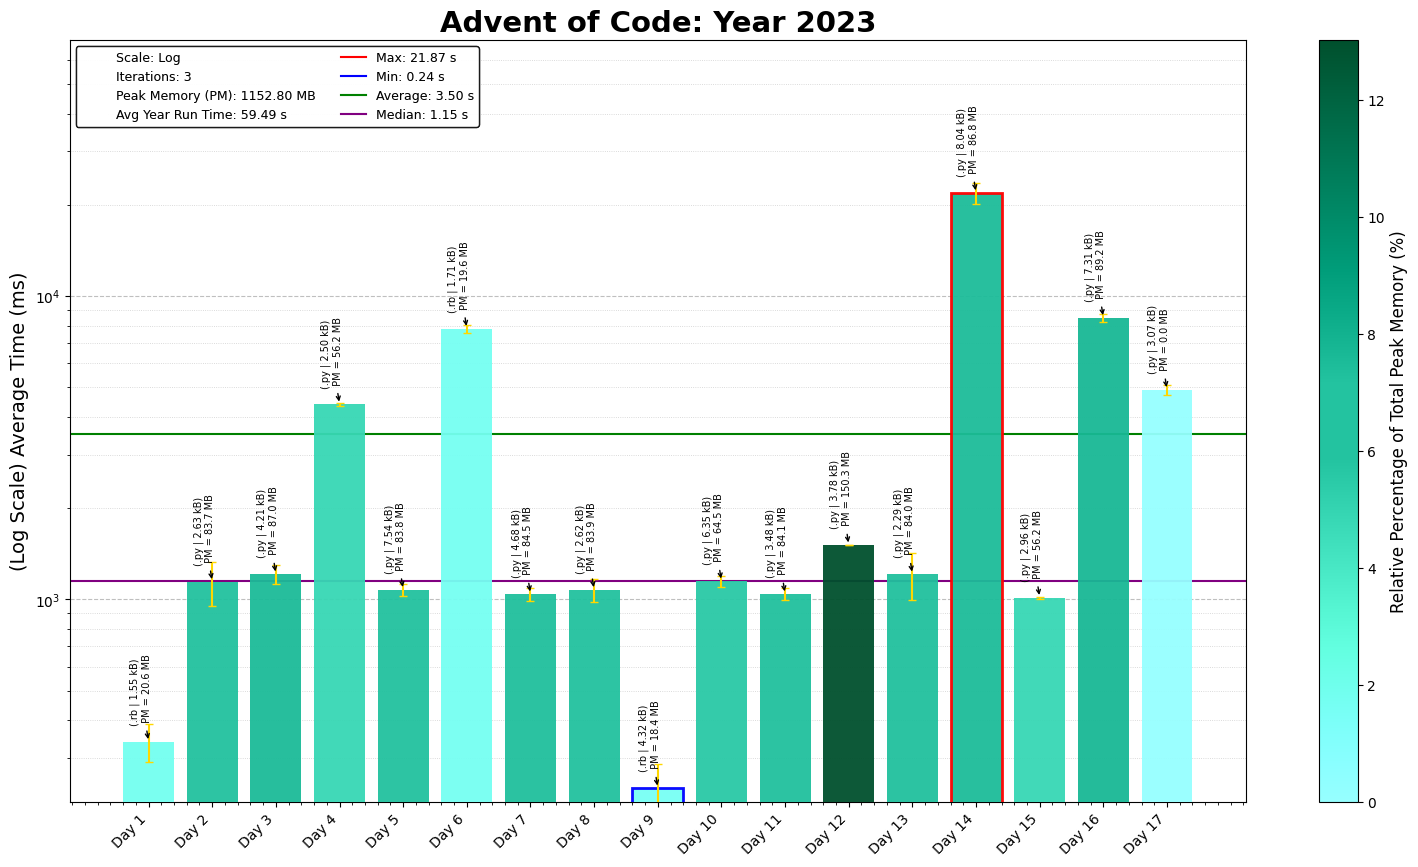
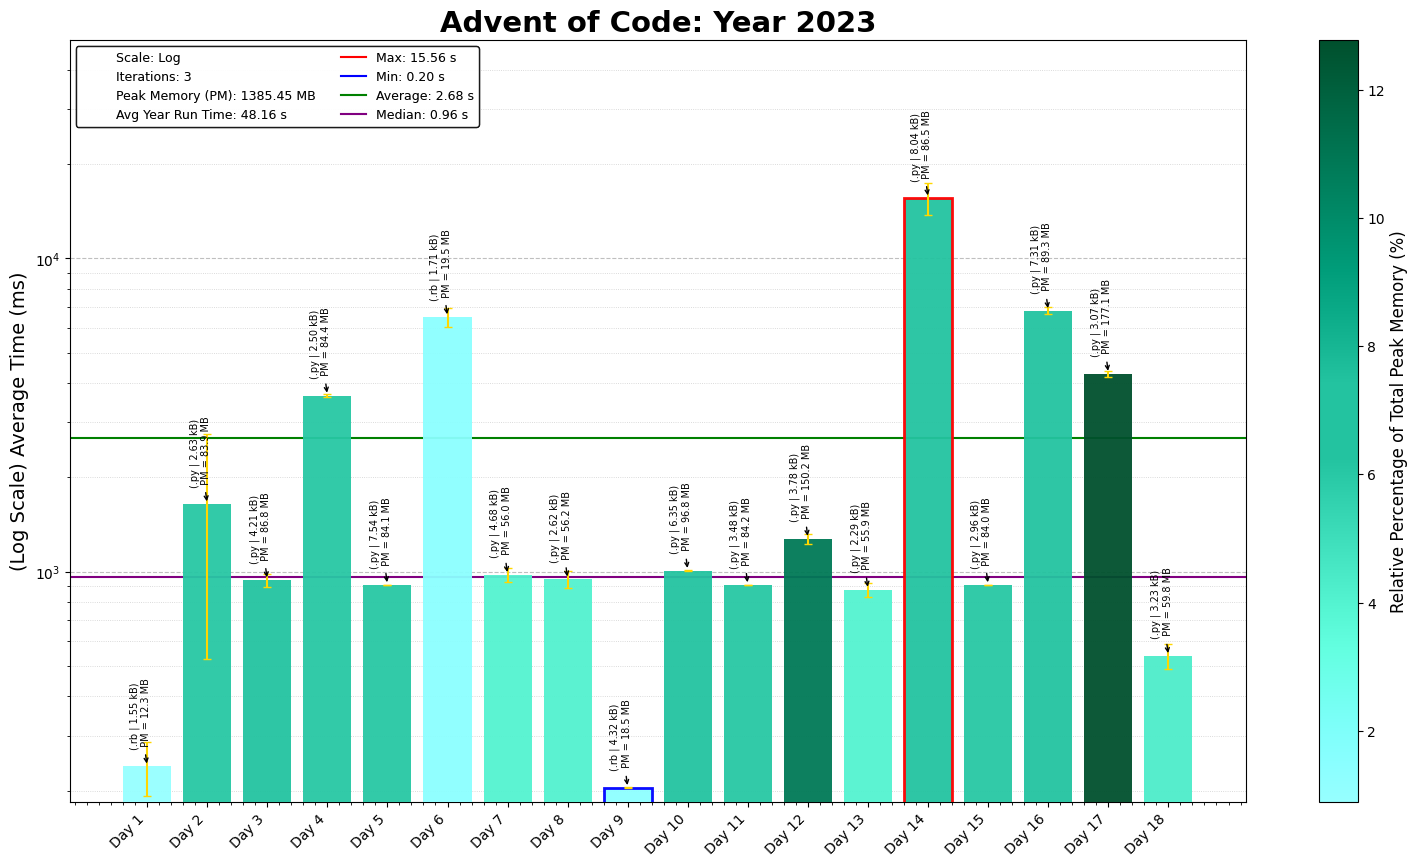
2023 Day 18 P1 & P2

diff --git a/2023/18/2023Day18.py b/2023/18/2023Day18.py
@@ -1,0 +1,99 @@
+"""Advent of Code - Day 18, Year 2023
+Solution Started: Jan 8, 2025
+Puzzle Link: https://adventofcode.com/2023/day/18
+Solution by: abbasmoosajee07
+Brief: [Dig holes and Lava Flow]
+"""
+
+#!/usr/bin/env python3
+
+import os, re, copy, time
+from math import gcd
+import numpy as np
+import pandas as pd
+start_time = time.time()
+
+# Load the input data from the specified file path
+D18_file = "Day18_input.txt"
+D18_file_path = os.path.join(os.path.dirname(os.path.abspath(__file__)), D18_file)
+
+# Read and sort input data into a grid
+with open(D18_file_path) as file:
+    input_data = file.read().strip().split('\n')
+
+def parse_input(input_list: list[str]) -> list[dict]:
+    direction_mapping = {0: 'R', 1: 'D', 2: 'L', 3: 'U'}
+    instructions = []
+
+    for line in input_list:
+        # Split the input into direction, magnitude, and color
+        dir, mag, color = line.split(' ')
+
+        # Extract the numeric magnitude and hex-based values from the color
+        color_value = color.strip('(#)')
+        hex_mag = int(color_value[:-1], 16)
+        direction_index = int(color_value[-1])  # Extract the last digit for direction
+
+        # Map the direction index to a direction
+        new_dir = direction_mapping[direction_index]
+
+        # Store both small and large hole properties
+        instructions.append({
+            'small': (dir, int(mag)),
+            'large': (new_dir, hex_mag),
+        })
+    return instructions
+
+def dig_hole(instructions: tuple, hole_size: str) -> dict:
+    """Returns a dict representing the corners of a hole with movements and color."""
+    DIRECTIONS = {'U': ((-1, 0), '^'), 'D': ((1, 0), 'v'), 'R': ((0, 1), '>'), 'L': ((0, -1), '<')}
+    basic_hole = {}
+    row, col = (0, 0)
+
+    # Process each instruction and record direction and color
+    for hole_props in instructions:
+        dir_ins, magnitude = hole_props[hole_size]
+        (dr, dc), str_dir = DIRECTIONS[dir_ins]
+        row += dr * magnitude
+        col += dc * magnitude
+        basic_hole[(row, col)] = (str_dir)
+    return basic_hole, surveyors_formula(basic_hole)
+
+def surveyors_formula(coords_dict: dict) -> int:
+    """
+    Efficiently calculates the area and perimeter of a polygon using the Shoelace Theorem
+    and boundary lattice point calculation with GCD.
+    """
+    # Extract the coordinates
+    coords = list(coords_dict.keys())
+    n = len(coords)
+
+    # Initialize the area and boundary point counter
+    area = 0
+    boundary_points = 0
+
+    for i in range(n):
+        x1, y1 = coords[i]
+        x2, y2 = coords[(i + 1) % n]  # Wrap around to the first point
+
+        # Shoelace formula for area
+        area += (x1 * y2) - (x2 * y1)
+
+        # Boundary points on the current edge
+        boundary_points += gcd(abs(x2 - x1), abs(y2 - y1))
+
+    # Calculate the absolute area and apply Pick's Theorem
+    area = abs(area) // 2
+    total_lattice_points = area + boundary_points // 2 + 1
+
+    return total_lattice_points
+
+dig_instructions = parse_input(input_data)
+
+hole_p1, area_p1= dig_hole(dig_instructions, 'small')
+print(f"Part 1: {area_p1}")
+
+hole_p2, area_p2 = dig_hole(dig_instructions, 'large')
+print(f"Part 2: {area_p2}")
+
+# print(f"Execution Time = {time.time() - start_time:.5f}s")
